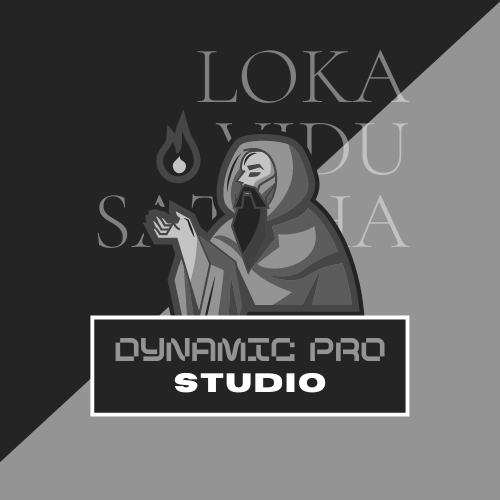
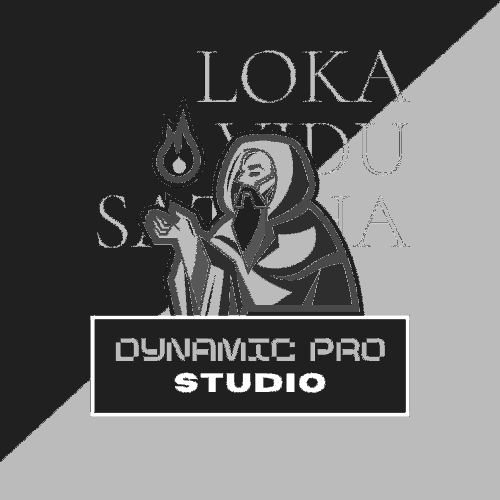
Setting up image processing module

diff --git a/main.go b/main.go
@@ -32,10 +32,11 @@ func main() {
 	fmt.Printf("Canvas Stride: %v\n", canvas.Stride)
 	for i := 0; i < 500; i++ {
 		for j := 0; j < 500; j++ {
-		// 	origin := imgData.At(i, j)
-		// 	r, g, b, a := grayImg.RGBA()
+			origin := imgData.At(i, j)
+			r, g, b, a := origin.RGBA()
+			newColor := color.RGBA{uint8(r/2), uint8(g/2), uint8(b/2), uint8(a)}
 
-			canvas.Set(i, j, color.GrayModel.Convert(imgData.At(i, j)))
+			canvas.Set(i, j, color.GrayModel.Convert(newColor))
 
 		}
 	}
